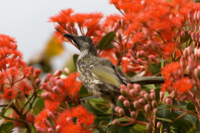
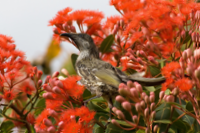
Updated examples with tritone and hue

diff --git a/README.md b/README.md
@@ -172,6 +172,7 @@ Click on the small images to see an enlarged example.
 | gaussian | <a href='https://raw.github.com/sksamuel/scrimage/master/examples/filters/bird_gaussian_large.jpeg'><img src='https://raw.github.com/sksamuel/scrimage/master/examples/filters/bird_gaussian_small.png'><a/> | <a href='https://raw.github.com/sksamuel/scrimage/master/examples/filters/colosseum_gaussian_large.jpeg'><img src='https://raw.github.com/sksamuel/scrimage/master/examples/filters/colosseum_gaussian_small.png'><a/> | <a href='https://raw.github.com/sksamuel/scrimage/master/examples/filters/lanzarote_gaussian_large.jpeg'><img src='https://raw.github.com/sksamuel/scrimage/master/examples/filters/lanzarote_gaussian_small.png'><a/> |
 | glow | <a href='https://raw.github.com/sksamuel/scrimage/master/examples/filters/bird_glow_large.jpeg'><img src='https://raw.github.com/sksamuel/scrimage/master/examples/filters/bird_glow_small.png'><a/> | <a href='https://raw.github.com/sksamuel/scrimage/master/examples/filters/colosseum_glow_large.jpeg'><img src='https://raw.github.com/sksamuel/scrimage/master/examples/filters/colosseum_glow_small.png'><a/> | <a href='https://raw.github.com/sksamuel/scrimage/master/examples/filters/lanzarote_glow_large.jpeg'><img src='https://raw.github.com/sksamuel/scrimage/master/examples/filters/lanzarote_glow_small.png'><a/> |
 | grayscale | <a href='https://raw.github.com/sksamuel/scrimage/master/examples/filters/bird_grayscale_large.jpeg'><img src='https://raw.github.com/sksamuel/scrimage/master/examples/filters/bird_grayscale_small.png'><a/> | <a href='https://raw.github.com/sksamuel/scrimage/master/examples/filters/colosseum_grayscale_large.jpeg'><img src='https://raw.github.com/sksamuel/scrimage/master/examples/filters/colosseum_grayscale_small.png'><a/> | <a href='https://raw.github.com/sksamuel/scrimage/master/examples/filters/lanzarote_grayscale_large.jpeg'><img src='https://raw.github.com/sksamuel/scrimage/master/examples/filters/lanzarote_grayscale_small.png'><a/> |
+| hsb | <a href='https://raw.github.com/sksamuel/scrimage/master/examples/filters/bird_hsb_large.jpeg'><img src='https://raw.github.com/sksamuel/scrimage/master/examples/filters/bird_hsb_small.png'><a/> | <a href='https://raw.github.com/sksamuel/scrimage/master/examples/filters/colosseum_hsb_large.jpeg'><img src='https://raw.github.com/sksamuel/scrimage/master/examples/filters/colosseum_hsb_small.png'><a/> | <a href='https://raw.github.com/sksamuel/scrimage/master/examples/filters/lanzarote_hsb_large.jpeg'><img src='https://raw.github.com/sksamuel/scrimage/master/examples/filters/lanzarote_hsb_small.png'><a/> |
 | invert | <a href='https://raw.github.com/sksamuel/scrimage/master/examples/filters/bird_invert_large.jpeg'><img src='https://raw.github.com/sksamuel/scrimage/master/examples/filters/bird_invert_small.png'><a/> | <a href='https://raw.github.com/sksamuel/scrimage/master/examples/filters/colosseum_invert_large.jpeg'><img src='https://raw.github.com/sksamuel/scrimage/master/examples/filters/colosseum_invert_small.png'><a/> | <a href='https://raw.github.com/sksamuel/scrimage/master/examples/filters/lanzarote_invert_large.jpeg'><img src='https://raw.github.com/sksamuel/scrimage/master/examples/filters/lanzarote_invert_small.png'><a/> |
 | lensblur | <a href='https://raw.github.com/sksamuel/scrimage/master/examples/filters/bird_lensblur_large.jpeg'><img src='https://raw.github.com/sksamuel/scrimage/master/examples/filters/bird_lensblur_small.png'><a/> | <a href='https://raw.github.com/sksamuel/scrimage/master/examples/filters/colosseum_lensblur_large.jpeg'><img src='https://raw.github.com/sksamuel/scrimage/master/examples/filters/colosseum_lensblur_small.png'><a/> | <a href='https://raw.github.com/sksamuel/scrimage/master/examples/filters/lanzarote_lensblur_large.jpeg'><img src='https://raw.github.com/sksamuel/scrimage/master/examples/filters/lanzarote_lensblur_small.png'><a/> |
 | lensflare | <a href='https://raw.github.com/sksamuel/scrimage/master/examples/filters/bird_lensflare_large.jpeg'><img src='https://raw.github.com/sksamuel/scrimage/master/examples/filters/bird_lensflare_small.png'><a/> | <a href='https://raw.github.com/sksamuel/scrimage/master/examples/filters/colosseum_lensflare_large.jpeg'><img src='https://raw.github.com/sksamuel/scrimage/master/examples/filters/colosseum_lensflare_small.png'><a/> | <a href='https://raw.github.com/sksamuel/scrimage/master/examples/filters/lanzarote_lensflare_large.jpeg'><img src='https://raw.github.com/sksamuel/scrimage/master/examples/filters/lanzarote_lensflare_small.png'><a/> |
@@ -198,6 +199,7 @@ Click on the small images to see an enlarged example.
 | swim | <a href='https://raw.github.com/sksamuel/scrimage/master/examples/filters/bird_swim_large.jpeg'><img src='https://raw.github.com/sksamuel/scrimage/master/examples/filters/bird_swim_small.png'><a/> | <a href='https://raw.github.com/sksamuel/scrimage/master/examples/filters/colosseum_swim_large.jpeg'><img src='https://raw.github.com/sksamuel/scrimage/master/examples/filters/colosseum_swim_small.png'><a/> | <a href='https://raw.github.com/sksamuel/scrimage/master/examples/filters/lanzarote_swim_large.jpeg'><img src='https://raw.github.com/sksamuel/scrimage/master/examples/filters/lanzarote_swim_small.png'><a/> |
 | television | <a href='https://raw.github.com/sksamuel/scrimage/master/examples/filters/bird_television_large.jpeg'><img src='https://raw.github.com/sksamuel/scrimage/master/examples/filters/bird_television_small.png'><a/> | <a href='https://raw.github.com/sksamuel/scrimage/master/examples/filters/colosseum_television_large.jpeg'><img src='https://raw.github.com/sksamuel/scrimage/master/examples/filters/colosseum_television_small.png'><a/> | <a href='https://raw.github.com/sksamuel/scrimage/master/examples/filters/lanzarote_television_large.jpeg'><img src='https://raw.github.com/sksamuel/scrimage/master/examples/filters/lanzarote_television_small.png'><a/> |
 | threshold | <a href='https://raw.github.com/sksamuel/scrimage/master/examples/filters/bird_threshold_large.jpeg'><img src='https://raw.github.com/sksamuel/scrimage/master/examples/filters/bird_threshold_small.png'><a/> | <a href='https://raw.github.com/sksamuel/scrimage/master/examples/filters/colosseum_threshold_large.jpeg'><img src='https://raw.github.com/sksamuel/scrimage/master/examples/filters/colosseum_threshold_small.png'><a/> | <a href='https://raw.github.com/sksamuel/scrimage/master/examples/filters/lanzarote_threshold_large.jpeg'><img src='https://raw.github.com/sksamuel/scrimage/master/examples/filters/lanzarote_threshold_small.png'><a/> |
+| tritone | <a href='https://raw.github.com/sksamuel/scrimage/master/examples/filters/bird_tritone_large.jpeg'><img src='https://raw.github.com/sksamuel/scrimage/master/examples/filters/bird_tritone_small.png'><a/> | <a href='https://raw.github.com/sksamuel/scrimage/master/examples/filters/colosseum_tritone_large.jpeg'><img src='https://raw.github.com/sksamuel/scrimage/master/examples/filters/colosseum_tritone_small.png'><a/> | <a href='https://raw.github.com/sksamuel/scrimage/master/examples/filters/lanzarote_tritone_large.jpeg'><img src='https://raw.github.com/sksamuel/scrimage/master/examples/filters/lanzarote_tritone_small.png'><a/> |
 | twirl | <a href='https://raw.github.com/sksamuel/scrimage/master/examples/filters/bird_twirl_large.jpeg'><img src='https://raw.github.com/sksamuel/scrimage/master/examples/filters/bird_twirl_small.png'><a/> | <a href='https://raw.github.com/sksamuel/scrimage/master/examples/filters/colosseum_twirl_large.jpeg'><img src='https://raw.github.com/sksamuel/scrimage/master/examples/filters/colosseum_twirl_small.png'><a/> | <a href='https://raw.github.com/sksamuel/scrimage/master/examples/filters/lanzarote_twirl_large.jpeg'><img src='https://raw.github.com/sksamuel/scrimage/master/examples/filters/lanzarote_twirl_small.png'><a/> |
 | unsharp | <a href='https://raw.github.com/sksamuel/scrimage/master/examples/filters/bird_unsharp_large.jpeg'><img src='https://raw.github.com/sksamuel/scrimage/master/examples/filters/bird_unsharp_small.png'><a/> | <a href='https://raw.github.com/sksamuel/scrimage/master/examples/filters/colosseum_unsharp_large.jpeg'><img src='https://raw.github.com/sksamuel/scrimage/master/examples/filters/colosseum_unsharp_small.png'><a/> | <a href='https://raw.github.com/sksamuel/scrimage/master/examples/filters/lanzarote_unsharp_large.jpeg'><img src='https://raw.github.com/sksamuel/scrimage/master/examples/filters/lanzarote_unsharp_small.png'><a/> |
 | vignette | <a href='https://raw.github.com/sksamuel/scrimage/master/examples/filters/bird_vignette_large.jpeg'><img src='https://raw.github.com/sksamuel/scrimage/master/examples/filters/bird_vignette_small.png'><a/> | <a href='https://raw.github.com/sksamuel/scrimage/master/examples/filters/colosseum_vignette_large.jpeg'><img src='https://raw.github.com/sksamuel/scrimage/master/examples/filters/colosseum_vignette_small.png'><a/> | <a href='https://raw.github.com/sksamuel/scrimage/master/examples/filters/lanzarote_vignette_large.jpeg'><img src='https://raw.github.com/sksamuel/scrimage/master/examples/filters/lanzarote_vignette_small.png'><a/> |

diff --git a/filters.md b/filters.md
@@ -17,6 +17,7 @@
 | gaussian | <a href='https://raw.github.com/sksamuel/scrimage/master/examples/filters/bird_gaussian_large.jpeg'><img src='https://raw.github.com/sksamuel/scrimage/master/examples/filters/bird_gaussian_small.png'><a/> | <a href='https://raw.github.com/sksamuel/scrimage/master/examples/filters/colosseum_gaussian_large.jpeg'><img src='https://raw.github.com/sksamuel/scrimage/master/examples/filters/colosseum_gaussian_small.png'><a/> | <a href='https://raw.github.com/sksamuel/scrimage/master/examples/filters/lanzarote_gaussian_large.jpeg'><img src='https://raw.github.com/sksamuel/scrimage/master/examples/filters/lanzarote_gaussian_small.png'><a/> | 
 | glow | <a href='https://raw.github.com/sksamuel/scrimage/master/examples/filters/bird_glow_large.jpeg'><img src='https://raw.github.com/sksamuel/scrimage/master/examples/filters/bird_glow_small.png'><a/> | <a href='https://raw.github.com/sksamuel/scrimage/master/examples/filters/colosseum_glow_large.jpeg'><img src='https://raw.github.com/sksamuel/scrimage/master/examples/filters/colosseum_glow_small.png'><a/> | <a href='https://raw.github.com/sksamuel/scrimage/master/examples/filters/lanzarote_glow_large.jpeg'><img src='https://raw.github.com/sksamuel/scrimage/master/examples/filters/lanzarote_glow_small.png'><a/> | 
 | grayscale | <a href='https://raw.github.com/sksamuel/scrimage/master/examples/filters/bird_grayscale_large.jpeg'><img src='https://raw.github.com/sksamuel/scrimage/master/examples/filters/bird_grayscale_small.png'><a/> | <a href='https://raw.github.com/sksamuel/scrimage/master/examples/filters/colosseum_grayscale_large.jpeg'><img src='https://raw.github.com/sksamuel/scrimage/master/examples/filters/colosseum_grayscale_small.png'><a/> | <a href='https://raw.github.com/sksamuel/scrimage/master/examples/filters/lanzarote_grayscale_large.jpeg'><img src='https://raw.github.com/sksamuel/scrimage/master/examples/filters/lanzarote_grayscale_small.png'><a/> | 
+| hsb | <a href='https://raw.github.com/sksamuel/scrimage/master/examples/filters/bird_hsb_large.jpeg'><img src='https://raw.github.com/sksamuel/scrimage/master/examples/filters/bird_hsb_small.png'><a/> | <a href='https://raw.github.com/sksamuel/scrimage/master/examples/filters/colosseum_hsb_large.jpeg'><img src='https://raw.github.com/sksamuel/scrimage/master/examples/filters/colosseum_hsb_small.png'><a/> | <a href='https://raw.github.com/sksamuel/scrimage/master/examples/filters/lanzarote_hsb_large.jpeg'><img src='https://raw.github.com/sksamuel/scrimage/master/examples/filters/lanzarote_hsb_small.png'><a/> | 
 | invert | <a href='https://raw.github.com/sksamuel/scrimage/master/examples/filters/bird_invert_large.jpeg'><img src='https://raw.github.com/sksamuel/scrimage/master/examples/filters/bird_invert_small.png'><a/> | <a href='https://raw.github.com/sksamuel/scrimage/master/examples/filters/colosseum_invert_large.jpeg'><img src='https://raw.github.com/sksamuel/scrimage/master/examples/filters/colosseum_invert_small.png'><a/> | <a href='https://raw.github.com/sksamuel/scrimage/master/examples/filters/lanzarote_invert_large.jpeg'><img src='https://raw.github.com/sksamuel/scrimage/master/examples/filters/lanzarote_invert_small.png'><a/> | 
 | lensblur | <a href='https://raw.github.com/sksamuel/scrimage/master/examples/filters/bird_lensblur_large.jpeg'><img src='https://raw.github.com/sksamuel/scrimage/master/examples/filters/bird_lensblur_small.png'><a/> | <a href='https://raw.github.com/sksamuel/scrimage/master/examples/filters/colosseum_lensblur_large.jpeg'><img src='https://raw.github.com/sksamuel/scrimage/master/examples/filters/colosseum_lensblur_small.png'><a/> | <a href='https://raw.github.com/sksamuel/scrimage/master/examples/filters/lanzarote_lensblur_large.jpeg'><img src='https://raw.github.com/sksamuel/scrimage/master/examples/filters/lanzarote_lensblur_small.png'><a/> | 
 | lensflare | <a href='https://raw.github.com/sksamuel/scrimage/master/examples/filters/bird_lensflare_large.jpeg'><img src='https://raw.github.com/sksamuel/scrimage/master/examples/filters/bird_lensflare_small.png'><a/> | <a href='https://raw.github.com/sksamuel/scrimage/master/examples/filters/colosseum_lensflare_large.jpeg'><img src='https://raw.github.com/sksamuel/scrimage/master/examples/filters/colosseum_lensflare_small.png'><a/> | <a href='https://raw.github.com/sksamuel/scrimage/master/examples/filters/lanzarote_lensflare_large.jpeg'><img src='https://raw.github.com/sksamuel/scrimage/master/examples/filters/lanzarote_lensflare_small.png'><a/> | 
@@ -43,6 +44,7 @@
 | swim | <a href='https://raw.github.com/sksamuel/scrimage/master/examples/filters/bird_swim_large.jpeg'><img src='https://raw.github.com/sksamuel/scrimage/master/examples/filters/bird_swim_small.png'><a/> | <a href='https://raw.github.com/sksamuel/scrimage/master/examples/filters/colosseum_swim_large.jpeg'><img src='https://raw.github.com/sksamuel/scrimage/master/examples/filters/colosseum_swim_small.png'><a/> | <a href='https://raw.github.com/sksamuel/scrimage/master/examples/filters/lanzarote_swim_large.jpeg'><img src='https://raw.github.com/sksamuel/scrimage/master/examples/filters/lanzarote_swim_small.png'><a/> | 
 | television | <a href='https://raw.github.com/sksamuel/scrimage/master/examples/filters/bird_television_large.jpeg'><img src='https://raw.github.com/sksamuel/scrimage/master/examples/filters/bird_television_small.png'><a/> | <a href='https://raw.github.com/sksamuel/scrimage/master/examples/filters/colosseum_television_large.jpeg'><img src='https://raw.github.com/sksamuel/scrimage/master/examples/filters/colosseum_television_small.png'><a/> | <a href='https://raw.github.com/sksamuel/scrimage/master/examples/filters/lanzarote_television_large.jpeg'><img src='https://raw.github.com/sksamuel/scrimage/master/examples/filters/lanzarote_television_small.png'><a/> | 
 | threshold | <a href='https://raw.github.com/sksamuel/scrimage/master/examples/filters/bird_threshold_large.jpeg'><img src='https://raw.github.com/sksamuel/scrimage/master/examples/filters/bird_threshold_small.png'><a/> | <a href='https://raw.github.com/sksamuel/scrimage/master/examples/filters/colosseum_threshold_large.jpeg'><img src='https://raw.github.com/sksamuel/scrimage/master/examples/filters/colosseum_threshold_small.png'><a/> | <a href='https://raw.github.com/sksamuel/scrimage/master/examples/filters/lanzarote_threshold_large.jpeg'><img src='https://raw.github.com/sksamuel/scrimage/master/examples/filters/lanzarote_threshold_small.png'><a/> | 
+| tritone | <a href='https://raw.github.com/sksamuel/scrimage/master/examples/filters/bird_tritone_large.jpeg'><img src='https://raw.github.com/sksamuel/scrimage/master/examples/filters/bird_tritone_small.png'><a/> | <a href='https://raw.github.com/sksamuel/scrimage/master/examples/filters/colosseum_tritone_large.jpeg'><img src='https://raw.github.com/sksamuel/scrimage/master/examples/filters/colosseum_tritone_small.png'><a/> | <a href='https://raw.github.com/sksamuel/scrimage/master/examples/filters/lanzarote_tritone_large.jpeg'><img src='https://raw.github.com/sksamuel/scrimage/master/examples/filters/lanzarote_tritone_small.png'><a/> | 
 | twirl | <a href='https://raw.github.com/sksamuel/scrimage/master/examples/filters/bird_twirl_large.jpeg'><img src='https://raw.github.com/sksamuel/scrimage/master/examples/filters/bird_twirl_small.png'><a/> | <a href='https://raw.github.com/sksamuel/scrimage/master/examples/filters/colosseum_twirl_large.jpeg'><img src='https://raw.github.com/sksamuel/scrimage/master/examples/filters/colosseum_twirl_small.png'><a/> | <a href='https://raw.github.com/sksamuel/scrimage/master/examples/filters/lanzarote_twirl_large.jpeg'><img src='https://raw.github.com/sksamuel/scrimage/master/examples/filters/lanzarote_twirl_small.png'><a/> | 
 | unsharp | <a href='https://raw.github.com/sksamuel/scrimage/master/examples/filters/bird_unsharp_large.jpeg'><img src='https://raw.github.com/sksamuel/scrimage/master/examples/filters/bird_unsharp_small.png'><a/> | <a href='https://raw.github.com/sksamuel/scrimage/master/examples/filters/colosseum_unsharp_large.jpeg'><img src='https://raw.github.com/sksamuel/scrimage/master/examples/filters/colosseum_unsharp_small.png'><a/> | <a href='https://raw.github.com/sksamuel/scrimage/master/examples/filters/lanzarote_unsharp_large.jpeg'><img src='https://raw.github.com/sksamuel/scrimage/master/examples/filters/lanzarote_unsharp_small.png'><a/> | 
 | vignette | <a href='https://raw.github.com/sksamuel/scrimage/master/examples/filters/bird_vignette_large.jpeg'><img src='https://raw.github.com/sksamuel/scrimage/master/examples/filters/bird_vignette_small.png'><a/> | <a href='https://raw.github.com/sksamuel/scrimage/master/examples/filters/colosseum_vignette_large.jpeg'><img src='https://raw.github.com/sksamuel/scrimage/master/examples/filters/colosseum_vignette_small.png'><a/> | <a href='https://raw.github.com/sksamuel/scrimage/master/examples/filters/lanzarote_vignette_large.jpeg'><img src='https://raw.github.com/sksamuel/scrimage/master/examples/filters/lanzarote_vignette_small.png'><a/> | 
